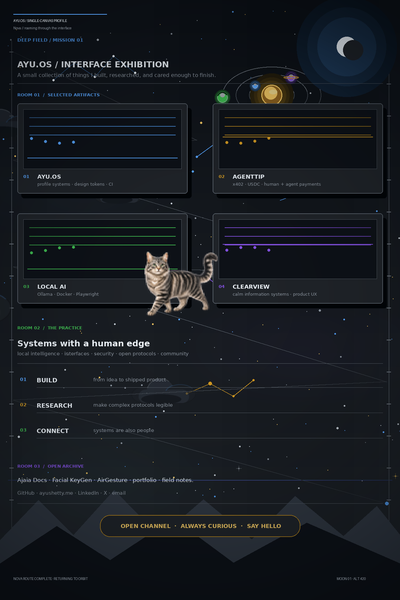
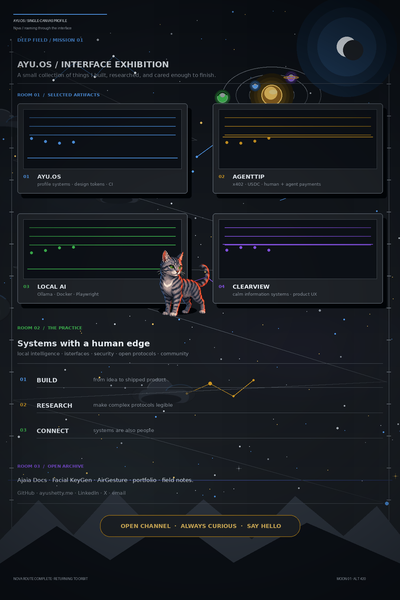
feat: add profile-matched pixel cat walk cycle

Changed region(s): [[0.36, 0.42, 0.54, 0.54]]

diff --git a/scripts/create_sky_banner.py b/scripts/create_sky_banner.py
@@ -57,65 +57,83 @@ def remove_checkerboard(image: Image.Image) -> Image.Image:
     return image.crop(bbox) if bbox else image
 
 
-REAL_CAT_FILES = {
-    "base": ASSET_DIR / "nova-real-clean.png",
-    "walk_1": ASSET_DIR / "nova-real-walk.png",
-    "walk_2": ASSET_DIR / "nova-real-walk-2.png",
-    "walk_3": ASSET_DIR / "nova-real-walk-3.png",
-    "lick": ASSET_DIR / "nova-real-lick.png",
-    "sleep": ASSET_DIR / "nova-real-sleep.png",
-    "stretch": ASSET_DIR / "nova-real-stretch.png",
-    "acro_sleep": ASSET_DIR / "nova-real-acro.png",
+PIXEL_CAT_FILES = {
+    "walk_0": ASSET_DIR / "nova-pixel-base.png",
+    "walk_1": ASSET_DIR / "nova-pixel-walk-1.png",
+    "walk_2": ASSET_DIR / "nova-pixel-walk-3.png",
+    "walk_3": ASSET_DIR / "nova-pixel-walk-4.png",
+    "walk_4": ASSET_DIR / "nova-pixel-walk-6.png",
+    "walk_5": ASSET_DIR / "nova-pixel-walk-5.png",
+    "walk_6": ASSET_DIR / "nova-pixel-walk-2.png",
+    "lick": ASSET_DIR / "nova-pixel-lick.png",
+    "sleep": ASSET_DIR / "nova-pixel-sleep.png",
+    "stretch": ASSET_DIR / "nova-pixel-stretch.png",
+    "acro_sleep": ASSET_DIR / "nova-pixel-acro.png",
 }
 
 
-def pixelate_image(image: Image.Image, pixel_size: int = 64) -> Image.Image:
-    """Apply a modern pixel-art filter by downscaling and upscaling with nearest resampling."""
-    small = image.resize((pixel_size, pixel_size), Image.Resampling.LANCZOS)
-    return small.resize(image.size, Image.Resampling.NEAREST)
+def background_pixel(r: int, g: int, b: int) -> bool:
+    """Recognize the generated green-screen or deep charcoal background."""
+    green_screen = g > 60 and g > r * 1.18 and g > b * 1.18
+    dark_screen = max(r, g, b) < 42
+    return green_screen or dark_screen
 
 
-def prepare_real_cat(path: Path, size: int = 220) -> Image.Image:
-    """Normalize a generated pose into a transparent, pixelated natural cat layer."""
-    image = Image.open(path).convert("RGBA")
-    alpha = image.getchannel("A")
-    if alpha.getbbox() is None or alpha.getextrema()[0] > 0:
-        image = remove_checkerboard(image)
-    image.thumbnail((size, size), Image.Resampling.LANCZOS)
-    image = pixelate_image(image)
+def remove_generated_background(image: Image.Image) -> Image.Image:
+    """Flood-remove only border-connected screen pixels, preserving cat outlines."""
+    image = image.convert("RGBA")
+    pixels = image.load()
+    width, height = image.size
+    queue: deque[tuple[int, int]] = deque()
+    seen: set[tuple[int, int]] = set()
+    for x in range(width):
+        for y in (0, height - 1):
+            queue.append((x, y)); seen.add((x, y))
+    for y in range(height):
+        for x in (0, width - 1):
+            queue.append((x, y)); seen.add((x, y))
+    while queue:
+        x, y = queue.popleft()
+        r, g, b, a = pixels[x, y]
+        if a == 0 or not background_pixel(r, g, b):
+            continue
+        pixels[x, y] = (0, 0, 0, 0)
+        for nx, ny in ((x - 1, y), (x + 1, y), (x, y - 1), (x, y + 1)):
+            if 0 <= nx < width and 0 <= ny < height and (nx, ny) not in seen:
+                seen.add((nx, ny)); queue.append((nx, ny))
+    bbox = image.getchannel("A").getbbox()
+    return image.crop(bbox) if bbox else image
+
+
+def prepare_pixel_cat(path: Path, size: int = 220) -> Image.Image:
+    """Normalize a generated pixel-art pose into a transparent stable-size layer."""
+    image = remove_generated_background(Image.open(path).convert("RGBA"))
+    image.thumbnail((size, size), Image.Resampling.NEAREST)
     layer = Image.new("RGBA", (size, size), (0, 0, 0, 0))
-    x = (size - image.width) // 2
-    y = (size - image.height) // 2
-    layer.alpha_composite(image, (x, y))
+    layer.alpha_composite(image, ((size - image.width) // 2, (size - image.height) // 2))
     return layer
 
 
 def make_cat_poses() -> dict[str, Image.Image]:
-    missing = [str(path) for path in REAL_CAT_FILES.values() if not path.exists()]
+    missing = [str(path) for path in PIXEL_CAT_FILES.values() if not path.exists()]
     if missing:
-        raise SystemExit(f"Real cat pose assets missing: {', '.join(missing)}")
-    poses = {name: prepare_real_cat(path) for name, path in REAL_CAT_FILES.items()}
-    # Mirror the passing pose for the 4th frame of the walk cycle.
-    poses["walk_4"] = poses["walk_3"].transpose(Image.FLIP_LEFT_RIGHT)
-    return poses
+        raise SystemExit(f"Pixel cat pose assets missing: {', '.join(missing)}")
+    return {name: prepare_pixel_cat(path) for name, path in PIXEL_CAT_FILES.items()}
 
 
 def pixel_cat_v2(poses: dict[str, Image.Image], state: str, phase: int = 0) -> Image.Image:
-    """Return a smooth, multi-frame pixel-art cat pose with a dense walk cycle."""
+    """Return an 8-pose, slow natural walk cycle with grounded bobbing."""
     if state == "walk":
-        # 4-frame walk cycle: Stride 1 -> Passing -> Stride 2 -> Passing (mirrored)
-        cycle = [poses["walk_1"], poses["walk_3"], poses["walk_2"], poses["walk_4"]]
-        image = cycle[(phase // 4) % 4].copy()
+        cycle = [poses[f"walk_{index}"] for index in range(7)] + [poses["walk_3"].transpose(Image.FLIP_LEFT_RIGHT)]
+        image = cycle[(phase // 2) % len(cycle)].copy()
     elif state == "wake":
-        image = Image.blend(poses["sleep"], poses["base"], min(1.0, phase / 18.0))
+        image = Image.blend(poses["sleep"], poses["walk_0"], min(1.0, phase / 18.0))
     elif state == "greet":
-        image = Image.blend(poses["base"], poses["stretch"], 0.32 + 0.08 * math.sin(phase * 0.12))
+        image = Image.blend(poses["walk_0"], poses["stretch"], 0.32 + 0.08 * math.sin(phase * 0.12))
     else:
-        image = poses.get(state, poses["base"]).copy()
-
-    # Subtle breathing and bobbing to keep it alive.
-    breathing = 1.0 + (0.012 * math.sin(phase * 0.09) if state in {"sleep", "acro_sleep", "greet"} else 0.004 * math.sin(phase * 0.1))
-    bob = int(2 * math.sin(phase * 0.25)) if state == "walk" else 0
+        image = poses.get(state, poses["walk_0"]).copy()
+    breathing = 1.0 + (0.012 * math.sin(phase * 0.09) if state in {"sleep", "acro_sleep", "greet"} else 0.003 * math.sin(phase * 0.1))
+    bob = int(2 * math.sin(phase * 0.18)) if state == "walk" else 0
     scaled = image.resize((int(image.width * breathing), int(image.height * breathing)), Image.Resampling.NEAREST)
     layer = Image.new("RGBA", image.size, (0, 0, 0, 0))
     layer.alpha_composite(scaled, ((image.width - scaled.width) // 2, (image.height - scaled.height) // 2 + bob))
@@ -443,6 +461,14 @@ def draw_frame(index: int, poses: dict[str, Image.Image]) -> Image.Image:
     sprite = pixel_cat_v2(poses, state, phase)
     if state in {"walk", "wake", "greet"}:
         sprite = sprite.rotate(int(1.2 * math.sin(phase * 0.08)), resample=Image.Resampling.NEAREST, expand=True)
+    draw = ImageDraw.Draw(frame, "RGBA")
+    contact = 0.5 + 0.5 * math.sin(phase * 0.45)
+    shadow_width = 108 + int(10 * contact)
+    draw.ellipse((x + 42, y + 180, x + 42 + shadow_width, y + 204), fill=(1, 4, 7, 125))
+    if state == "walk" and phase % 8 in {0, 1}:
+        dust_x = x + 58 + int(70 * contact)
+        draw.ellipse((dust_x, y + 190, dust_x + 4, y + 194), fill=(139, 148, 158, 75))
+        draw.ellipse((dust_x + 12, y + 184, dust_x + 16, y + 188), fill=(139, 148, 158, 45))
     frame.alpha_composite(sprite, (x, y))
 
     greeting_text = "hi — welcome to my orbit" if state == "greet" else None
@@ -474,7 +500,7 @@ def main() -> None:
     frames = [draw_frame(index, poses) for index in range(FRAME_COUNT)]
     # Downscale to 400x600 to ensure GitHub proxies the large GIF correctly.
     downscaled = [f.resize((400, 600), Image.Resampling.LANCZOS) for f in frames]
-    downscaled[0].save(OUTPUT_GIF, save_all=True, append_images=downscaled[1:], duration=65, loop=0, optimize=True, disposal=2)
+    downscaled[0].save(OUTPUT_GIF, save_all=True, append_images=downscaled[1:], duration=95, loop=0, optimize=True, disposal=2)
     downscaled[FRAME_COUNT // 2].save(OUTPUT_STILL, format="PNG", optimize=True)
     print(f"Generated {OUTPUT_GIF}")
     print(f"Generated {OUTPUT_STILL}")
